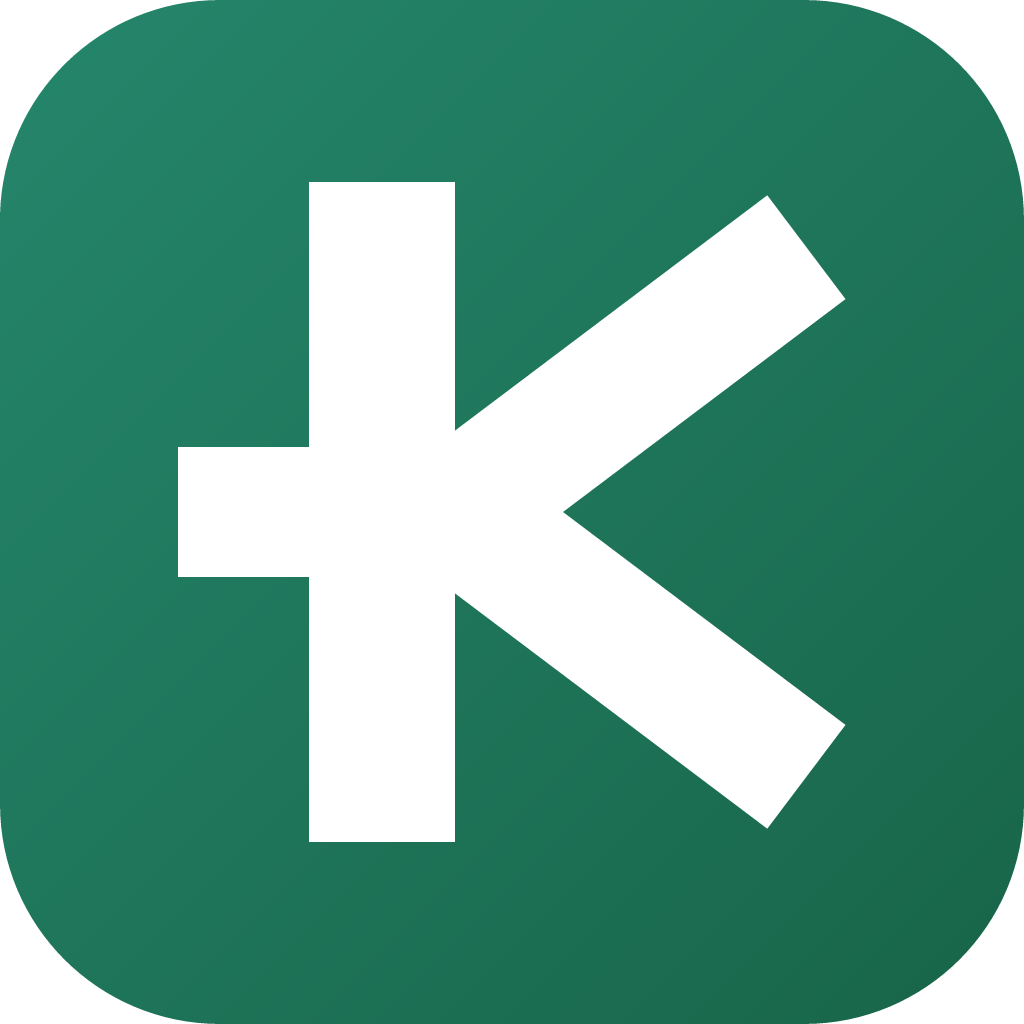
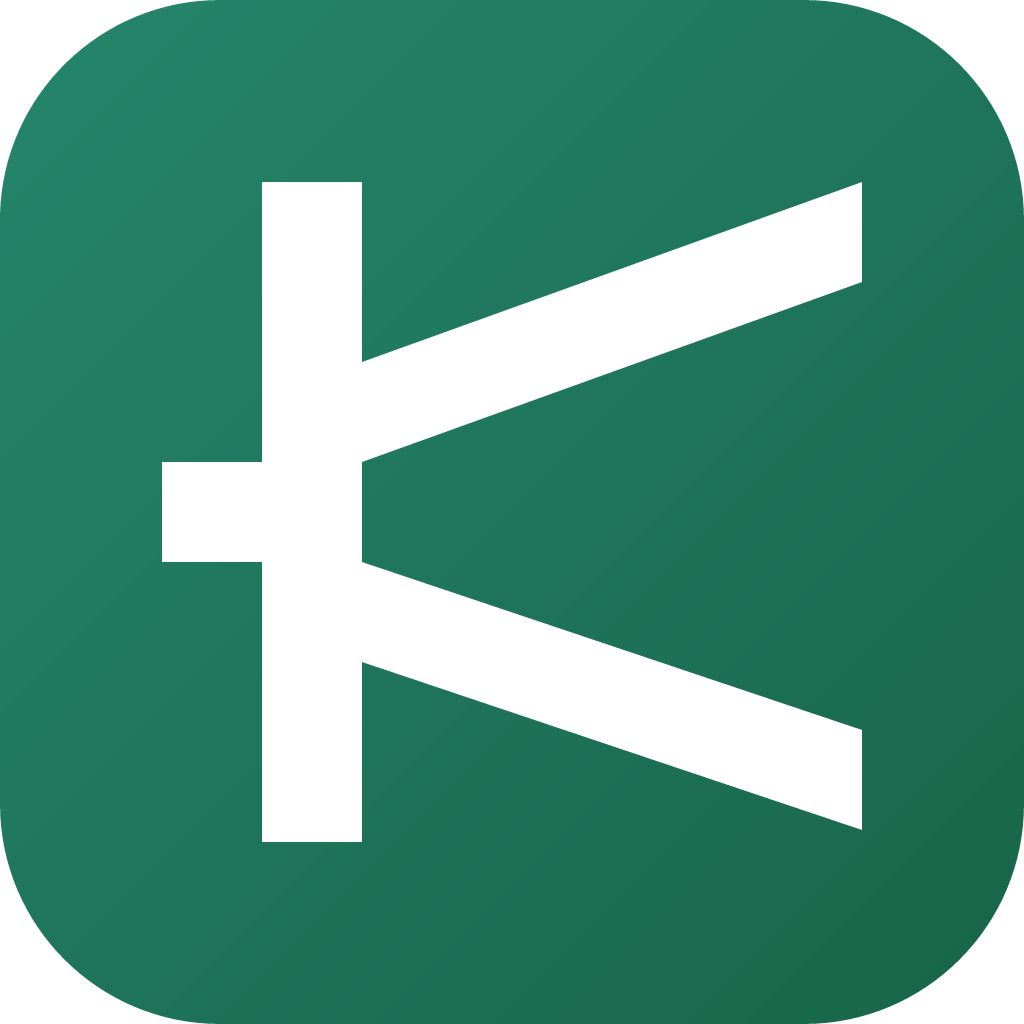
finalize first complete

diff --git a/scripts/generate-icons.js b/scripts/generate-icons.js
@@ -18,11 +18,35 @@ function render(svg, width, height) {
 // ─── SVG templates ──────────────────────────────────────────────────────────
 
 // Shared mark definition (white shapes, no background)
+//
+// Design: Bold K letterform with a short medical-cross arm extending left.
+//
+//   ┌─ stem ─┐
+//   │        │╲ upper arm
+//   │   ┤    │  ╲
+//   │        │  ╱ lower arm
+//   │        │╱
+//
+// The left stub (┤) is the cross arm. The stem's vertical bar doubles as
+// the cross's vertical bar. Trapezoid arms give consistent-looking strokes
+// while keeping the K's mouth clearly open to the right.
+//
+// All coordinates are on a 1024×1024 canvas.
+// Horizontal: content spans x=143–880 (737 px), centred with 143 px margins.
+// Vertical:   content spans y=182–842 (660 px), centred with 182 px margins.
+// All four bars are exactly 100 px wide, so the cross and K arms share
+// a unified stroke weight. The cross arm (left stub) sits at y=462-562,
+// which is the exact height of the K's mid-notch — they are one element.
+// Arms are parallelograms (both edges parallel) so stroke width is
+// constant along the full length of each arm.
+//
+// Horizontal span: x=162–862 = 700 px → centred with 162 px margins.
+// Vertical span:   y=182–842 = 660 px → centred with 182 px margins.
 const MARK_SHAPES = `
-  <rect x="178" y="447" width="131" height="130"/>
-  <rect x="309" y="182" width="146" height="660"/>
-  <rect x="455" y="447" width="440" height="130" transform="rotate(-37, 455, 512)"/>
-  <rect x="455" y="447" width="440" height="130" transform="rotate(37, 455, 512)"/>`;
+  <rect    x="162" y="462" width="100" height="100"/>
+  <rect    x="262" y="182" width="100" height="660"/>
+  <polygon points="362,362 862,182 862,282 362,462"/>
+  <polygon points="362,562 862,730 862,830 362,662"/>`;
 
 // Mark only (white on transparent) – used for splash, android foreground
 const MARK_SVG = `<svg xmlns="http://www.w3.org/2000/svg" viewBox="0 0 1024 1024">

diff --git a/src/app/_layout.tsx b/src/app/_layout.tsx
@@ -1,11 +1,10 @@
 import { useFonts } from 'expo-font';
-import { DarkTheme, DefaultTheme, ThemeProvider } from 'expo-router';
+import { DarkTheme, DefaultTheme, Slot, ThemeProvider } from 'expo-router';
 import * as SplashScreen from 'expo-splash-screen';
 import { StatusBar } from 'expo-status-bar';
 import { useEffect, useMemo } from 'react';
 
 import { ToastProvider } from '@/components/feedback/Toast';
-import { AppShell } from '@/components/layout/AppShell';
 import { ModalHost } from '@/components/modals/ModalHost';
 import { useHydrated } from '@/store/hooks';
 import { fontAssets } from '@/theme/fonts';
@@ -46,7 +45,8 @@ export default function RootLayout() {
       <ToastProvider>
         <ModalHost>
           <StatusBar style="auto" />
-          <AppShell />
+          {/* The (tabs) group with the app shell, or the not-found page for unknown URLs. */}
+          <Slot />
         </ModalHost>
       </ToastProvider>
     </ThemeProvider>

diff --git a/src/components/ui/ScreenHeader.tsx b/src/components/ui/ScreenHeader.tsx
@@ -18,7 +18,9 @@ export function ScreenHeader({ title, subtitle, actions, back }: ScreenHeaderPro
     <View style={styles.head}>
       <View style={styles.titles}>
         {back ? (
-          <Link href={back.href} role="link" accessibilityLabel={`Back to ${back.label}`}>
+          // dismissTo pops back to the list instead of stacking a second copy on top. After a deep
+          // link straight to this page there is no list underneath, and the link replaces the page.
+          <Link href={back.href} dismissTo role="link" accessibilityLabel={`Back to ${back.label}`}>
             <AppText color="muted">{back.label}</AppText>
           </Link>
         ) : null}

diff --git a/src/components/ui/DataTable.tsx b/src/components/ui/DataTable.tsx
@@ -75,7 +75,7 @@ export function DataTable<T>({ columns, rows, keyOf, empty, onRowPress, rowLabel
 
       {shown.map((row, index) => {
         const last = index === shown.length - 1 && rows.length <= limit;
-        const border = { borderBottomColor: colors.line, borderBottomWidth: last ? 0 : StyleSheet.hairlineWidth * 2 };
+        const border = { borderBottomColor: colors.line, borderBottomWidth: last ? 0 : 1 };
         const content = compact ? (
           <Card row={row} columns={columns} heading={heading} />
         ) : (

diff --git a/src/app/(tabs)/_layout.tsx b/src/app/(tabs)/_layout.tsx
@@ -1,0 +1,6 @@
+import { AppShell } from '@/components/layout/AppShell';
+
+/** Every section of the app lives inside the shell; only unknown URLs fall outside it. */
+export default function TabsLayout() {
+  return <AppShell />;
+}
